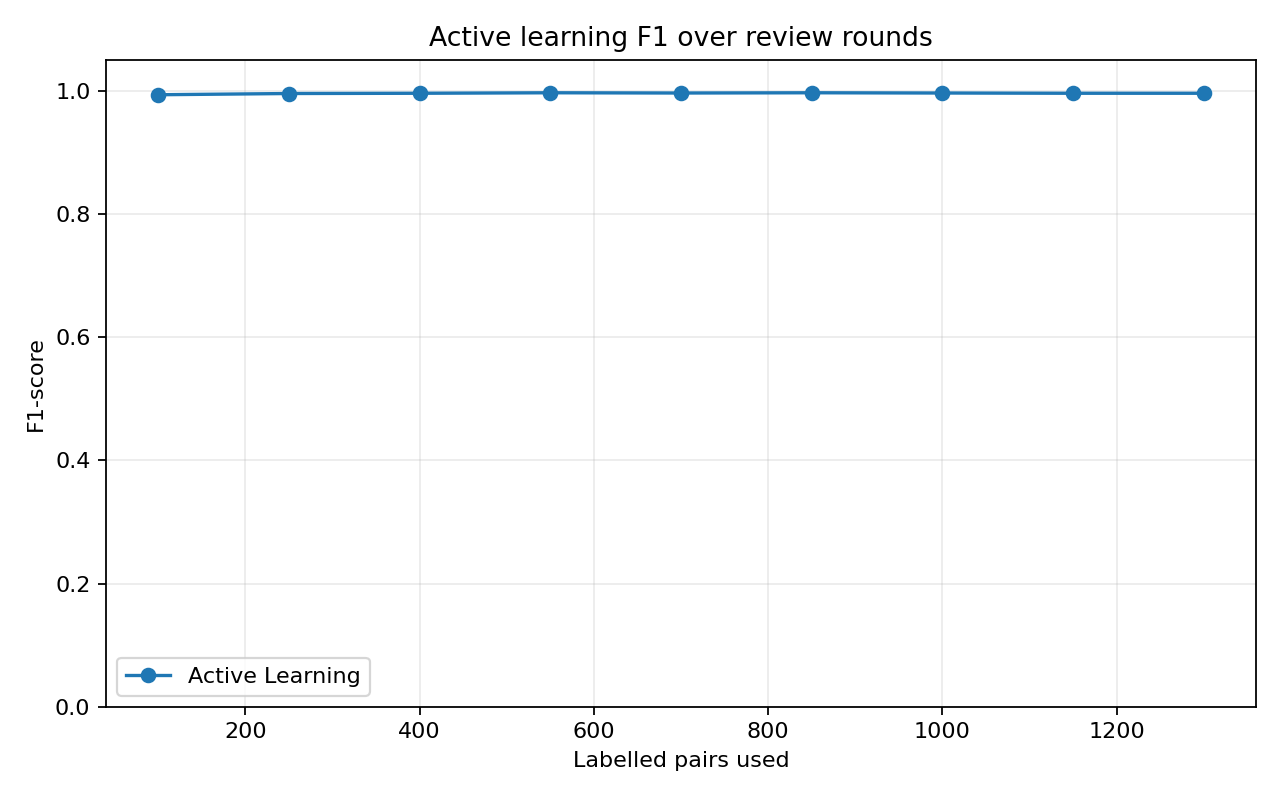
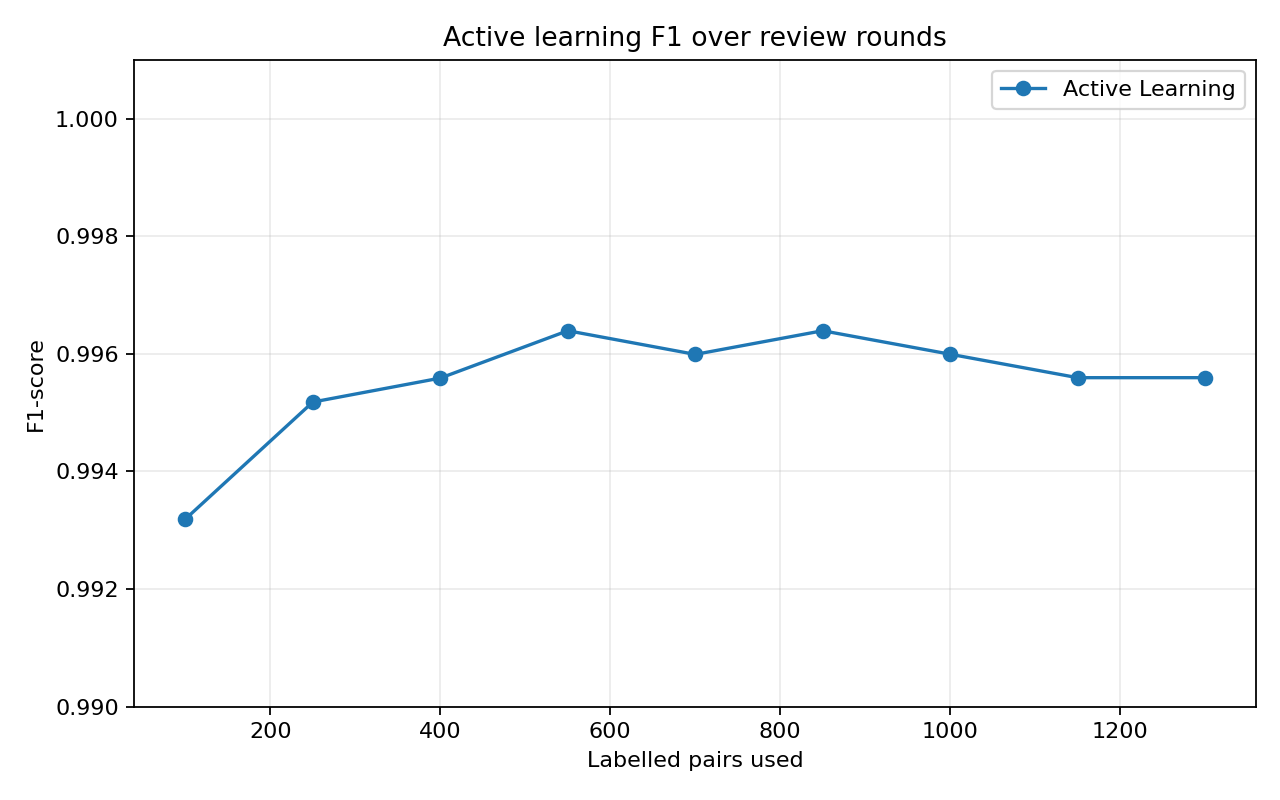
removed graphs that are not needed and simplified streamlit

diff --git a/app/streamlit_app.py b/app/streamlit_app.py
@@ -164,13 +164,17 @@ def _dataset_and_blocking() -> None:
     if blocking.empty:
         _show_missing(CONFIG.paths.blocking_stats, "python scripts/run_pipeline.py --review-mode simulate")
     else:
-        st.markdown("### Blocking Statistics")
-        st.dataframe(blocking, use_container_width=True)
-        c1, c2, c3, c4 = st.columns(4)
+        st.markdown("### Key Blocking Results")
+        c1, c2, c3 = st.columns(3)
         c1.metric("Total possible pairs", _metric_value(blocking, "total_possible_pairs"))
         c2.metric("Candidate pairs", _metric_value(blocking, "candidate_pairs"))
         c3.metric("Reduction ratio", f"{float(blocking.iloc[0]['reduction_ratio']) * 100:.2f}%")
-        c4.metric("Missed true links", _metric_value(blocking, "true_links_missed"))
+        c4, c5, c6 = st.columns(3)
+        c4.metric("True links retained", _metric_value(blocking, "true_links_retained"))
+        c5.metric("True links missed", _metric_value(blocking, "true_links_missed"))
+        c6.metric("Blocking recall", f"{float(blocking.iloc[0]['blocking_recall']) * 100:.2f}%")
+        with st.expander("Full blocking table"):
+            st.dataframe(blocking, use_container_width=True)
     _show_image(CONFIG.paths.resolution_flow_figure, "Candidate-pair resolution flow.")
 
 
@@ -251,7 +255,7 @@ def _field_evidence_page() -> None:
     st.markdown("### Sample Candidate Pair")
     index = st.slider("Example pair", 0, max(len(sample_source) - 1, 0), 0)
     pair = sample_source.iloc[index]
-    st.metric("Model score / probability", f"{float(pair.get('model_score', 0.0)):.3f}")
+    st.metric("ML match probability", f"{float(pair.get('model_score', 0.0)):.3f}")
     _pair_viewer(pair)
 
 
@@ -336,9 +340,10 @@ def _human_review_queue() -> None:
     pair = pending.iloc[0]
     st.markdown("### Current Pair")
     m1, m2, m3 = st.columns(3)
-    m1.metric("Model probability / score", f"{float(pair.get('model_score', 0.0)):.3f}")
+    m1.metric("ML match probability", f"{float(pair.get('model_score', 0.0)):.3f}")
     m2.metric("Evidence score", f"{float(pair.get('hybrid_empi_score', 0.0)):.3f}")
     m3.metric("Current decision", pair.get("model_decision", "Needs Human Review"))
+    st.caption("Evidence score is a rule-based support score from field agreement.")
     st.warning("This pair is in the uncertainty band, so it is sent for human review.")
     _pair_viewer(pair)
 
@@ -391,24 +396,32 @@ def _model_performance() -> None:
         _show_missing(CONFIG.paths.hyperparameter_tuning, "python scripts/run_active_learning.py")
     else:
         st.markdown("### Hyperparameter Tuning")
-        st.dataframe(tuning, use_container_width=True)
+        default_tuning_cols = ["Method", "Best CV F1-score", "Best parameters"]
+        st.dataframe(tuning[default_tuning_cols], use_container_width=True, hide_index=True)
         best_tuned = tuning.sort_values("Best CV F1-score", ascending=False).iloc[0]
         st.info(
             f"Selected active-learning classifier: {best_tuned['Method']} "
             f"(best CV F1-score {float(best_tuned['Best CV F1-score']):.3f})."
         )
+        with st.expander("Tuning runtime and notes"):
+            st.dataframe(tuning, use_container_width=True, hide_index=True)
     comparison = _load(CONFIG.paths.model_comparison)
     if comparison.empty:
         _show_missing(CONFIG.paths.model_comparison, "python scripts/run_active_learning.py")
     else:
-        st.markdown("### Frozen Test-Set Model Comparison")
-        st.dataframe(comparison, use_container_width=True)
+        st.markdown("### Frozen Test-Set ML Check")
+        ml_comparison = comparison[comparison["Method"] != "Hybrid EMPI Score"].copy()
+        metric_cols = ["Method", "Precision", "Recall", "F1-score", "False positives", "False negatives"]
+        st.dataframe(ml_comparison[metric_cols], use_container_width=True, hide_index=True)
         ml_only = comparison[comparison["Method"] != "Hybrid EMPI Score"]
         best = ml_only.sort_values("F1-score", ascending=False).iloc[0] if not ml_only.empty else comparison.iloc[0]
         c1, c2, c3 = st.columns(3)
         c1.metric("Best test-set ML", best["Method"])
         c2.metric("Best F1", f"{float(best['F1-score']):.3f}")
         c3.metric("Best recall", f"{float(best['Recall']):.3f}")
+        with st.expander("Internal fallback/evidence score"):
+            st.write("Hybrid EMPI is kept as a fallback/evidence score, not as a final evaluation method.")
+            st.dataframe(comparison, use_container_width=True, hide_index=True)
     _show_image(CONFIG.paths.model_comparison_f1_figure, "Model comparison by F1-score.", "python scripts/run_active_learning.py")
 
 
@@ -424,9 +437,37 @@ def _learning_curves() -> None:
         _show_missing(CONFIG.paths.active_learning_rounds, "python scripts/run_active_learning.py")
     else:
         st.markdown("### Active-Learning Rounds")
-        st.dataframe(active_rounds, use_container_width=True)
-    _show_image(CONFIG.paths.active_learning_curve_figure, "Active-learning curve.", "python scripts/run_active_learning.py")
-    _show_image(CONFIG.paths.label_efficiency_curve_figure, "Label efficiency curve.", "python scripts/run_active_learning.py")
+        best = active_rounds.sort_values("F1-score", ascending=False).iloc[0]
+        c1, c2, c3, c4, c5 = st.columns(5)
+        c1.metric("Best round", int(best["Round"]))
+        c2.metric("Labels used", f"{int(best['Labelled pairs']):,}")
+        c3.metric("F1-score", f"{float(best['F1-score']):.3f}")
+        c4.metric("False positives", int(best["False positives"]))
+        c5.metric("False negatives", int(best["False negatives"]))
+        default_round_cols = [
+            "Round",
+            "Labelled pairs",
+            "Precision",
+            "Recall",
+            "F1-score",
+            "False positives",
+            "False negatives",
+        ]
+        st.dataframe(active_rounds[default_round_cols], use_container_width=True, hide_index=True)
+        with st.expander("Full active-learning rounds table"):
+            st.dataframe(active_rounds, use_container_width=True, hide_index=True)
+    _show_image(
+        CONFIG.paths.active_learning_curve_figure,
+        "Active-learning F1 curve, zoomed to show small changes near the top of the range.",
+        "python scripts/run_active_learning.py",
+    )
+    _show_image(
+        CONFIG.paths.active_learning_error_reduction_figure,
+        "False positives and false negatives across active-learning rounds.",
+        "python scripts/run_active_learning.py",
+    )
+    with st.expander("Extra learning metric"):
+        _show_image(CONFIG.paths.label_efficiency_curve_figure, "Label efficiency curve.", "python scripts/run_active_learning.py")
     if not random_vs_active.empty:
         with st.expander("Internal check only"):
             st.write(
@@ -455,12 +496,40 @@ def _final_evaluation() -> None:
         _show_missing(CONFIG.paths.final_research_evaluation, "python scripts/run_active_learning.py")
     else:
         st.markdown("### Central Final Research Evaluation")
-        st.dataframe(final_research, use_container_width=True)
-    left, right = st.columns(2)
-    with left:
-        _show_image(CONFIG.paths.final_research_evaluation_figure, "Final research evaluation comparison.", "python scripts/run_active_learning.py")
-    with right:
-        _show_image(CONFIG.paths.active_learning_curve_figure, "Active-learning improvement over review batches.", "python scripts/run_active_learning.py")
+        default_eval_cols = [
+            "Method",
+            "Precision",
+            "Recall",
+            "F1-score",
+            "Candidate pairs reviewed",
+            "Review workload percentage",
+        ]
+        st.dataframe(final_research[default_eval_cols], use_container_width=True, hide_index=True)
+        with st.expander("More details"):
+            detail_cols = [
+                "Method",
+                "Role",
+                "Dataset",
+                "False positives",
+                "False negatives",
+                "Estimated review time",
+                "Training labels used",
+                "Evaluation scope",
+                "Key interpretation",
+            ]
+            st.dataframe(final_research[detail_cols], use_container_width=True, hide_index=True)
+    st.markdown("### Accuracy Comparison")
+    _show_image(
+        CONFIG.paths.final_accuracy_comparison_figure,
+        "Accuracy metrics for the three final evaluation methods.",
+        "python scripts/run_active_learning.py",
+    )
+    st.markdown("### Review Workload Comparison")
+    _show_image(
+        CONFIG.paths.final_workload_comparison_figure,
+        "Human-only review checks all candidate pairs. HITL reviews only selected uncertain pairs.",
+        "python scripts/run_active_learning.py",
+    )
 
 
 def _threshold_analysis() -> None:
@@ -483,14 +552,13 @@ def _report_evidence() -> None:
         CONFIG.paths.final_research_evaluation,
         CONFIG.paths.active_learning_rounds,
         CONFIG.paths.active_learning_curve_figure,
-        CONFIG.paths.final_research_evaluation_figure,
+        CONFIG.paths.active_learning_error_reduction_figure,
+        CONFIG.paths.final_accuracy_comparison_figure,
+        CONFIG.paths.final_workload_comparison_figure,
         CONFIG.paths.dataset_profile,
         CONFIG.paths.blocking_summary,
-        CONFIG.paths.hyperparameter_tuning,
-        CONFIG.paths.evaluation_summary,
-        CONFIG.paths.scoring_method_summary,
         CONFIG.paths.active_learning_summary,
-        CONFIG.paths.hyperparameter_tuning_summary,
+        CONFIG.paths.limitations,
     ]
     rows = [{"Evidence file": str(path), "Available": "Yes" if path.exists() else "No"} for path in evidence]
     st.dataframe(pd.DataFrame(rows), use_container_width=True, hide_index=True)
@@ -499,7 +567,6 @@ def _report_evidence() -> None:
         CONFIG.paths.evaluation_summary,
         CONFIG.paths.scoring_method_summary,
         CONFIG.paths.active_learning_summary,
-        CONFIG.paths.hyperparameter_tuning_summary,
         CONFIG.paths.limitations,
     ]:
         if path.exists():
@@ -557,8 +624,8 @@ def _sidebar() -> str:
                 "Final Evaluation",
                 "Field Evidence",
                 "ML Model Selection",
-                "Threshold Analysis",
                 "Evidence Files",
+                "Threshold Analysis",
             ],
         )
 
@@ -576,8 +643,8 @@ def main() -> None:
         "Final Evaluation": _final_evaluation,
         "Field Evidence": _field_evidence_page,
         "ML Model Selection": _model_performance,
-        "Threshold Analysis": _threshold_analysis,
         "Evidence Files": _report_evidence,
+        "Threshold Analysis": _threshold_analysis,
     }
     pages[page]()
 

diff --git a/src/evaluation/active_learning.py b/src/evaluation/active_learning.py
@@ -243,14 +243,22 @@ def _active_learning_loop(
     return pd.DataFrame(rows)
 
 
-def _line_chart(df: pd.DataFrame, path: Path, title: str, y_column: str, hue_column: str = "Strategy") -> None:
+def _line_chart(
+    df: pd.DataFrame,
+    path: Path,
+    title: str,
+    y_column: str,
+    hue_column: str = "Strategy",
+    y_min: float = 0.0,
+    y_max: float = 1.05,
+) -> None:
     plt.figure(figsize=(8, 5))
     for label, group in df.groupby(hue_column):
         plt.plot(group["Labelled pairs"], group[y_column], marker="o", label=label)
     plt.title(title)
     plt.xlabel("Labelled pairs used")
     plt.ylabel(y_column)
-    plt.ylim(0, 1.05)
+    plt.ylim(y_min, y_max)
     plt.grid(alpha=0.25)
     plt.legend()
     plt.tight_layout()
@@ -265,6 +273,58 @@ def _bar_chart(df: pd.DataFrame, path: Path) -> None:
     plt.xlabel("F1-score")
     plt.title("Model comparison by F1-score")
     plt.xlim(0, 1.05)
+    plt.tight_layout()
+    plt.savefig(path, dpi=160)
+    plt.close()
+
+
+def _final_accuracy_chart(df: pd.DataFrame, path: Path) -> None:
+    plt.figure(figsize=(8, 4.8))
+    x = np.arange(len(df))
+    width = 0.24
+    plt.bar(x - width, df["Precision"], width=width, label="Precision", color="#355C7D")
+    plt.bar(x, df["Recall"], width=width, label="Recall", color="#6C9A8B")
+    plt.bar(x + width, df["F1-score"], width=width, label="F1-score", color="#C06C84")
+    plt.xticks(x, df["Method"], rotation=20, ha="right")
+    plt.ylim(0.98, 1.005)
+    plt.ylabel("Metric value")
+    plt.title("Accuracy comparison")
+    plt.legend(frameon=False)
+    plt.tight_layout()
+    plt.savefig(path, dpi=160)
+    plt.close()
+
+
+def _final_workload_chart(df: pd.DataFrame, path: Path) -> None:
+    plt.figure(figsize=(8, 4.8))
+    bars = plt.bar(df["Method"], df["Candidate pairs reviewed"], color="#4C78A8")
+    plt.xticks(rotation=20, ha="right")
+    plt.ylabel("Pairs reviewed")
+    plt.title("Review workload comparison")
+    for bar, value in zip(bars, df["Candidate pairs reviewed"]):
+        plt.annotate(
+            f"{int(value):,}",
+            xy=(bar.get_x() + bar.get_width() / 2, bar.get_height()),
+            xytext=(0, 4),
+            textcoords="offset points",
+            ha="center",
+            va="bottom",
+            fontsize=8,
+        )
+    plt.tight_layout()
+    plt.savefig(path, dpi=160)
+    plt.close()
+
+
+def _error_reduction_chart(df: pd.DataFrame, path: Path) -> None:
+    plt.figure(figsize=(8, 4.8))
+    plt.plot(df["Round"], df["False positives"], marker="o", label="False positives", color="#C06C84")
+    plt.plot(df["Round"], df["False negatives"], marker="o", label="False negatives", color="#355C7D")
+    plt.xlabel("Active-learning round")
+    plt.ylabel("Error count")
+    plt.title("Errors over active-learning rounds")
+    plt.grid(alpha=0.25)
+    plt.legend(frameon=False)
     plt.tight_layout()
     plt.savefig(path, dpi=160)
     plt.close()
@@ -512,7 +572,15 @@ def run_active_learning_experiment() -> dict[str, pd.DataFrame]:
     save_csv(random_vs_active, CONFIG.paths.random_vs_active_learning)
     save_csv(final_research, CONFIG.paths.final_research_evaluation)
     _bar_chart(comparison, CONFIG.paths.model_comparison_f1_figure)
-    _line_chart(active_rounds, CONFIG.paths.active_learning_curve_figure, "Active learning F1 over review rounds", "F1-score")
+    _line_chart(
+        active_rounds,
+        CONFIG.paths.active_learning_curve_figure,
+        "Active learning F1 over review rounds",
+        "F1-score",
+        y_min=0.99,
+        y_max=1.001,
+    )
+    _error_reduction_chart(active_rounds, CONFIG.paths.active_learning_error_reduction_figure)
     _line_chart(
         random_vs_active,
         CONFIG.paths.random_vs_active_learning_figure,
@@ -526,6 +594,8 @@ def run_active_learning_experiment() -> dict[str, pd.DataFrame]:
         "Recall",
     )
     _final_research_chart(final_research, CONFIG.paths.final_research_evaluation_figure)
+    _final_accuracy_chart(final_research, CONFIG.paths.final_accuracy_comparison_figure)
+    _final_workload_chart(final_research, CONFIG.paths.final_workload_comparison_figure)
     _write_summary(active_rounds, comparison, final_research, tuning)
     _write_tuning_summary(tuning)
     return {

diff --git a/scripts/validate_outputs.py b/scripts/validate_outputs.py
@@ -39,7 +39,10 @@ REQUIRED_OUTPUTS = [
     CONFIG.paths.recall_workload_figure,
     CONFIG.paths.model_comparison_f1_figure,
     CONFIG.paths.active_learning_curve_figure,
+    CONFIG.paths.active_learning_error_reduction_figure,
     CONFIG.paths.label_efficiency_curve_figure,
+    CONFIG.paths.final_accuracy_comparison_figure,
+    CONFIG.paths.final_workload_comparison_figure,
     CONFIG.paths.final_research_evaluation_figure,
 ]
 

diff --git a/src/utils/config.py b/src/utils/config.py
@@ -60,6 +60,9 @@ class PathConfig:
     random_vs_active_learning_figure: Path = figures_dir / "random_vs_active_learning.png"
     label_efficiency_curve_figure: Path = figures_dir / "label_efficiency_curve.png"
     final_research_evaluation_figure: Path = figures_dir / "final_research_evaluation.png"
+    final_accuracy_comparison_figure: Path = figures_dir / "final_accuracy_comparison.png"
+    final_workload_comparison_figure: Path = figures_dir / "final_workload_comparison.png"
+    active_learning_error_reduction_figure: Path = figures_dir / "active_learning_error_reduction.png"
 
 
 @dataclass

diff --git a/README.md b/README.md
@@ -263,7 +263,10 @@ The `outputs/reports/` files are generated technical summaries, not final academ
 - `outputs/figures/recall_vs_review_workload.png`
 - `outputs/figures/model_comparison_f1.png`
 - `outputs/figures/active_learning_curve.png`
+- `outputs/figures/active_learning_error_reduction.png`
 - `outputs/figures/label_efficiency_curve.png`
+- `outputs/figures/final_accuracy_comparison.png`
+- `outputs/figures/final_workload_comparison.png`
 - `outputs/figures/final_research_evaluation.png`
 
 ## Limitations